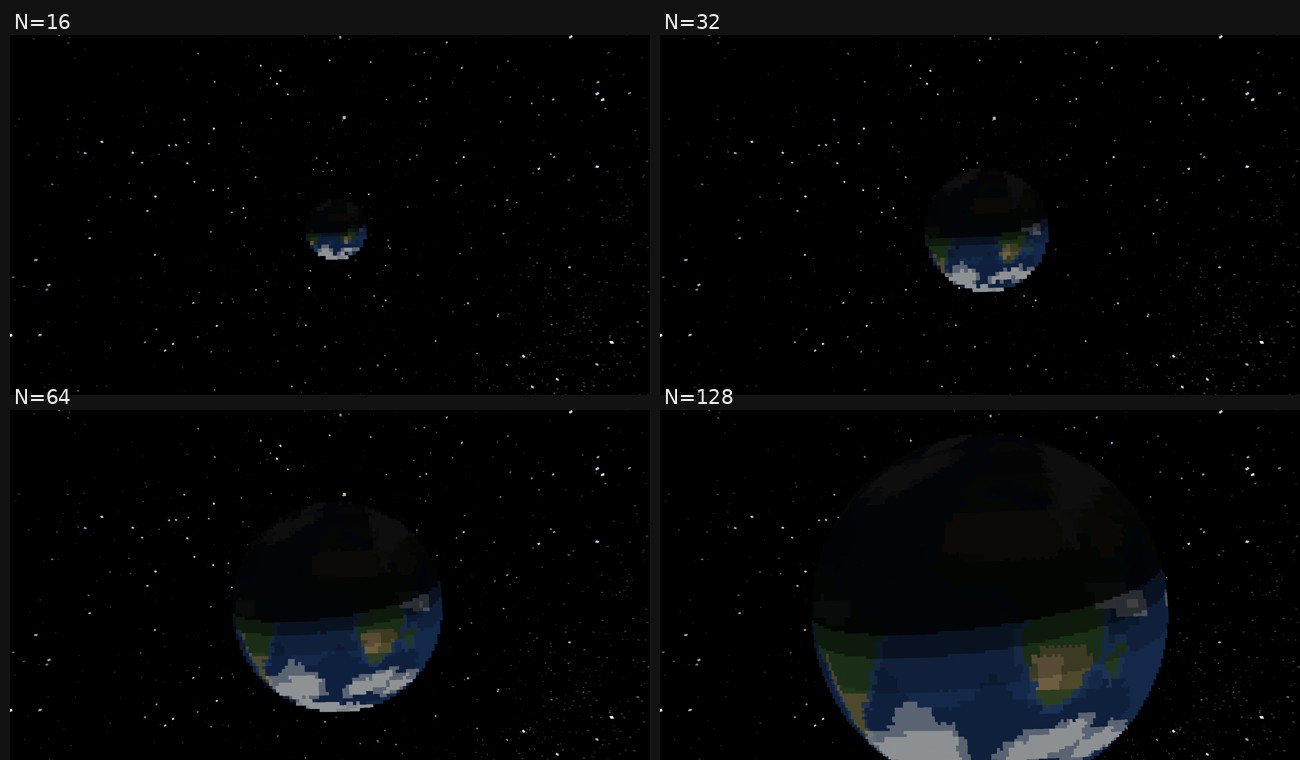
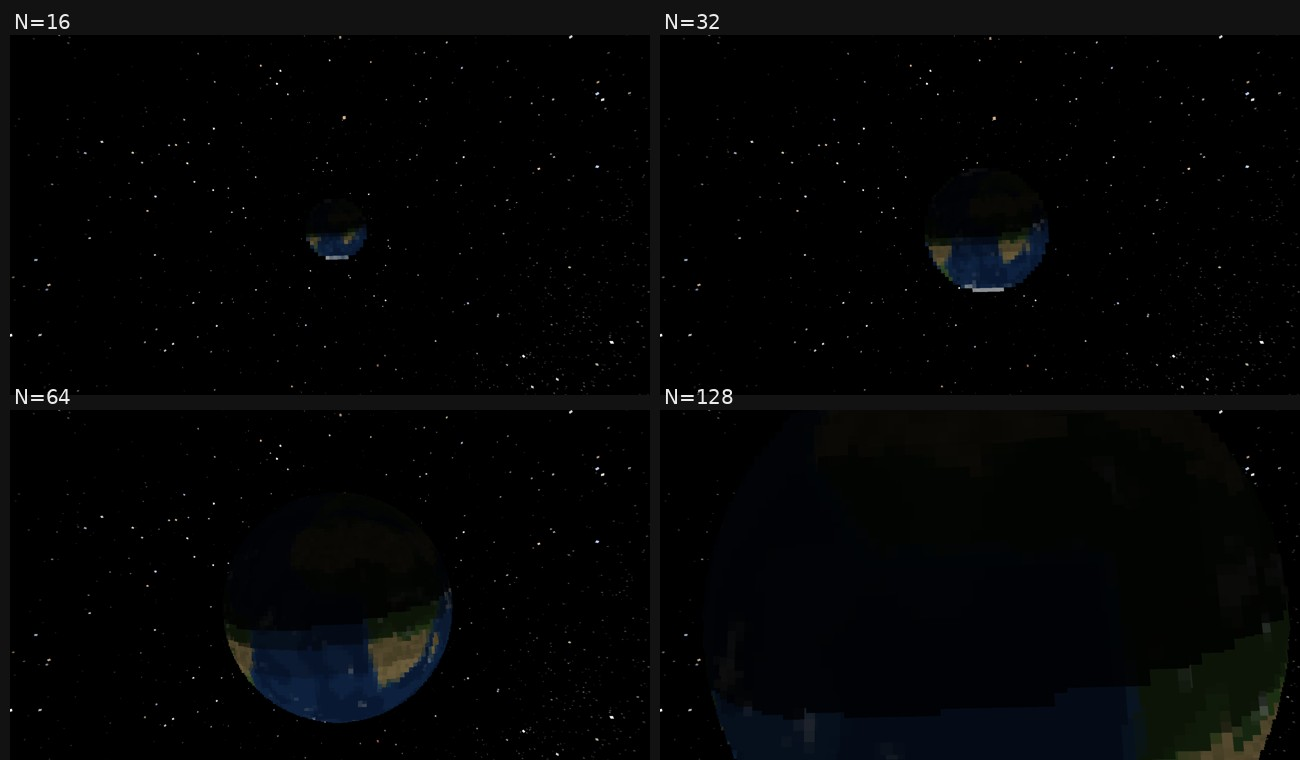
Blocky planets: detailed surface maps for Earth, Moon, Mars, Venus and Mercury, block colours averaged over their patch, worked out in the background

diff --git a/src/main/java/com/pizzaparker07/spacebreaker/client/sky/BlockyBodyRenderer.java b/src/main/java/com/pizzaparker07/spacebreaker/client/sky/BlockyBodyRenderer.java
@@ -270,7 +270,7 @@ public final class BlockyBodyRenderer {
         } else if (want < lod.current / 2.0 * 0.8 && index > 0) {
             next = LEVELS[index - 1];
         }
-        if (next != lod.current && BlockyBodyMesh.ready(style, next)) {
+        if (next != lod.current && coloursReady(map, style, next)) {
             lod.previous = lod.current;
             lod.current = next;
             lod.since = net.minecraft.Util.getMillis();
@@ -284,7 +284,7 @@ public final class BlockyBodyRenderer {
      */
     private static void cached(Matrix4f pose, BlockyBodyMesh.Style style, int n, ColorMap map, Pose body, Vector3f sun, float night,
                                float tint, float alpha) {
-        if (!BlockyBodyMesh.ready(style, n) && n > LEVELS[0]) {
+        if (n > LEVELS[0] && !coloursReady(map, style, n)) {
             BlockyBodyMesh.prepare(style, n);
             n = LEVELS[0];
         }
@@ -516,18 +516,98 @@ public final class BlockyBodyRenderer {
         return new Quad(depth, xyz, a << 24 | r << 16 | g << 8 | b);
     }
 
-    /** Map colours of every face, cached per map and mesh. */
+    /**
+     * Map colours of every face, cached per map and mesh. A body face takes the average colour over the patch of surface
+     * its block covers (a 3 x 3 sample), so a small ball of blocks shows the land and sea it really stands for instead
+     * of whichever single map pixel its centre happens to hit.
+     */
     private static int[] colours(ColorMap map, List<BlockyBodyMesh.Face> faces, boolean ring) {
+        int[] done = readyColours(map, faces);
+        if (done != null) {
+            return done;
+        }
+        int[] out = computeColours(map, faces, ring);
         synchronized (COLOURS) {
-            return COLOURS.computeIfAbsent(map, m -> new java.util.IdentityHashMap<>()).computeIfAbsent(faces, fs -> {
-                int[] out = new int[fs.size()];
-                for (int i = 0; i < fs.size(); i++) {
-                    Vector3f d = fs.get(i).surface();
-                    out[i] = ring ? map.argb(d.x, 0) : map.argb(BlockyBodyMesh.longitude(d), BlockyBodyMesh.latitude(d));
+            COLOURS.computeIfAbsent(map, m -> new java.util.IdentityHashMap<>()).put(faces, out);
+        }
+        return out;
+    }
+
+    private static int[] readyColours(ColorMap map, List<BlockyBodyMesh.Face> faces) {
+        synchronized (COLOURS) {
+            Map<List<BlockyBodyMesh.Face>, int[]> m = COLOURS.get(map);
+            return m == null ? null : m.get(faces);
+        }
+    }
+
+    private static final java.util.Set<Object> COLOURING = ConcurrentHashMap.newKeySet();
+
+    /** Whether a body size's colours are ready; if not, they are worked out in the background (big balls take a moment). */
+    private static boolean coloursReady(ColorMap map, BlockyBodyMesh.Style style, int n) {
+        if (!BlockyBodyMesh.ready(style, n)) {
+            return false;
+        }
+        List<BlockyBodyMesh.Face> faces = BlockyBodyMesh.body(style, n);
+        if (readyColours(map, faces) != null) {
+            return true;
+        }
+        if (COLOURING.add(List.of(map, faces))) {
+            java.util.concurrent.CompletableFuture.runAsync(() -> {
+                int[] out = computeColours(map, faces, false);
+                synchronized (COLOURS) {
+                    COLOURS.computeIfAbsent(map, m -> new java.util.IdentityHashMap<>()).put(faces, out);
                 }
-                return out;
             });
         }
+        return false;
+    }
+
+    private static int[] computeColours(ColorMap map, List<BlockyBodyMesh.Face> fs, boolean ring) {
+        int[] out = new int[fs.size()];
+        // block size as an angle on the unit sphere, from the face's half-edge
+        float footprint = fs.isEmpty() ? 0F : 2F * fs.get(0).u().length();
+        for (int i = 0; i < fs.size(); i++) {
+            Vector3f d = fs.get(i).surface();
+            out[i] = ring ? map.argb(d.x, 0) : average(map, BlockyBodyMesh.longitude(d), BlockyBodyMesh.latitude(d), footprint);
+        }
+        return out;
+    }
+
+    private static int average(ColorMap map, double lon, double lat, double size) {
+        double dLat = size / 3;
+        double dLon = dLat / Math.max(0.15, Math.cos(lat));
+        int r = 0, g = 0, b = 0;
+        for (int i = -1; i <= 1; i++) {
+            for (int j = -1; j <= 1; j++) {
+                int c = map.argb(lon + i * dLon, Mth.clamp(lat + j * dLat, -Math.PI / 2, Math.PI / 2));
+                r += c >> 16 & 255;
+                g += c >> 8 & 255;
+                b += c & 255;
+            }
+        }
+        return 0xFF000000 | (r / 9) << 16 | (g / 9) << 8 | b / 9;
+    }
+
+    private static final Map<String, ColorMap> SURFACES = new ConcurrentHashMap<>();
+
+    /**
+     * The detailed surface map of a body for close views (orbit, approach): Earth with its clouds, the Moon, Mars, Venus
+     * and Mercury, drawn by code at 512-2048 pixels around. Null for bodies without one (use their sky disc colours).
+     *
+     * @param body body id path, e.g. "earth"
+     */
+    public static ColorMap surface(String body) {
+        return switch (body) {
+            case "earth" -> SURFACES.computeIfAbsent(body, k -> withClouds(texture(Spacebreaker.id("textures/environment/orbit_earth.png")),
+                    texture(Spacebreaker.id("textures/environment/orbit_earth_clouds.png"))));
+            case "moon" -> SURFACES.computeIfAbsent(body, k -> texture(Spacebreaker.id("textures/environment/orbit_moon.png")));
+            // these maps start at longitude 0 on the left edge
+            case "mars", "venus", "mercury" -> SURFACES.computeIfAbsent(body, k -> {
+                ColorMap m = texture(Spacebreaker.id("textures/environment/orbit_" + k + ".png"));
+                return (lon, lat) -> m.argb(lon + Math.PI, lat);
+            });
+            default -> null;
+        };
     }
 
     /** Forgets loaded textures, colours and buffers (resource reload, leaving a world). */
@@ -541,6 +621,7 @@ public final class BlockyBodyRenderer {
         });
         BUFFERS.clear();
         LODS.clear();
+        COLOURING.clear();
         synchronized (COLOURS) {
             COLOURS.clear();
         }

diff --git a/src/main/java/com/pizzaparker07/spacebreaker/client/sky/PlanetSkyEffects.java b/src/main/java/com/pizzaparker07/spacebreaker/client/sky/PlanetSkyEffects.java
@@ -378,15 +378,9 @@ public class PlanetSkyEffects extends DimensionSpecialEffects {
         }
     }
 
-    private static BlockyBodyRenderer.ColorMap earthMap;
-
-    /** Earth's surface with its clouds, for the blocky planet. */
+    /** Earth's detailed surface with its clouds, for the blocky planet (fine enough for 128 blocks across). */
     private static BlockyBodyRenderer.ColorMap earthMap() {
-        if (earthMap == null) {
-            earthMap = BlockyBodyRenderer.withClouds(BlockyBodyRenderer.texture(Spacebreaker.id("textures/environment/earth_map.png")),
-                    BlockyBodyRenderer.texture(Spacebreaker.id("textures/environment/earth_clouds.png")));
-        }
-        return earthMap;
+        return BlockyBodyRenderer.surface("earth");
     }
 
     /**
